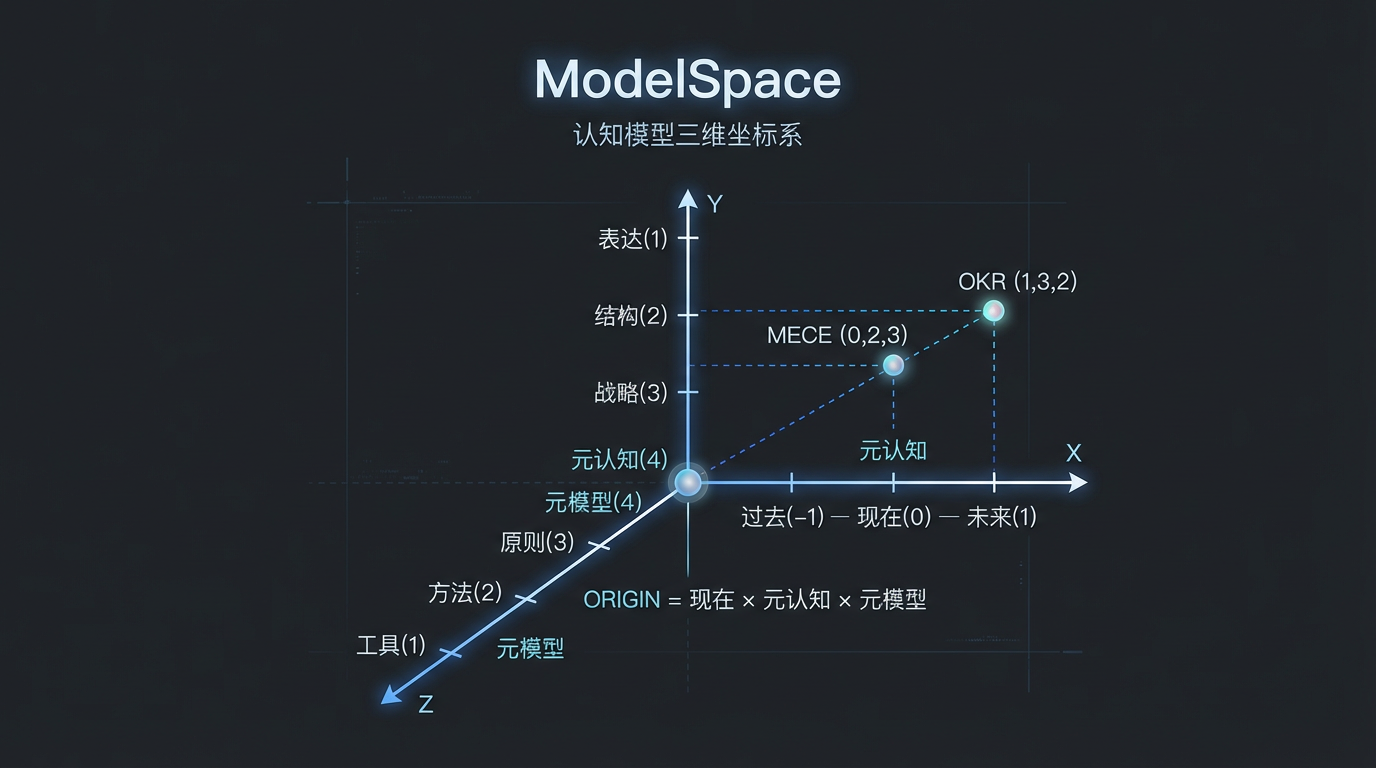
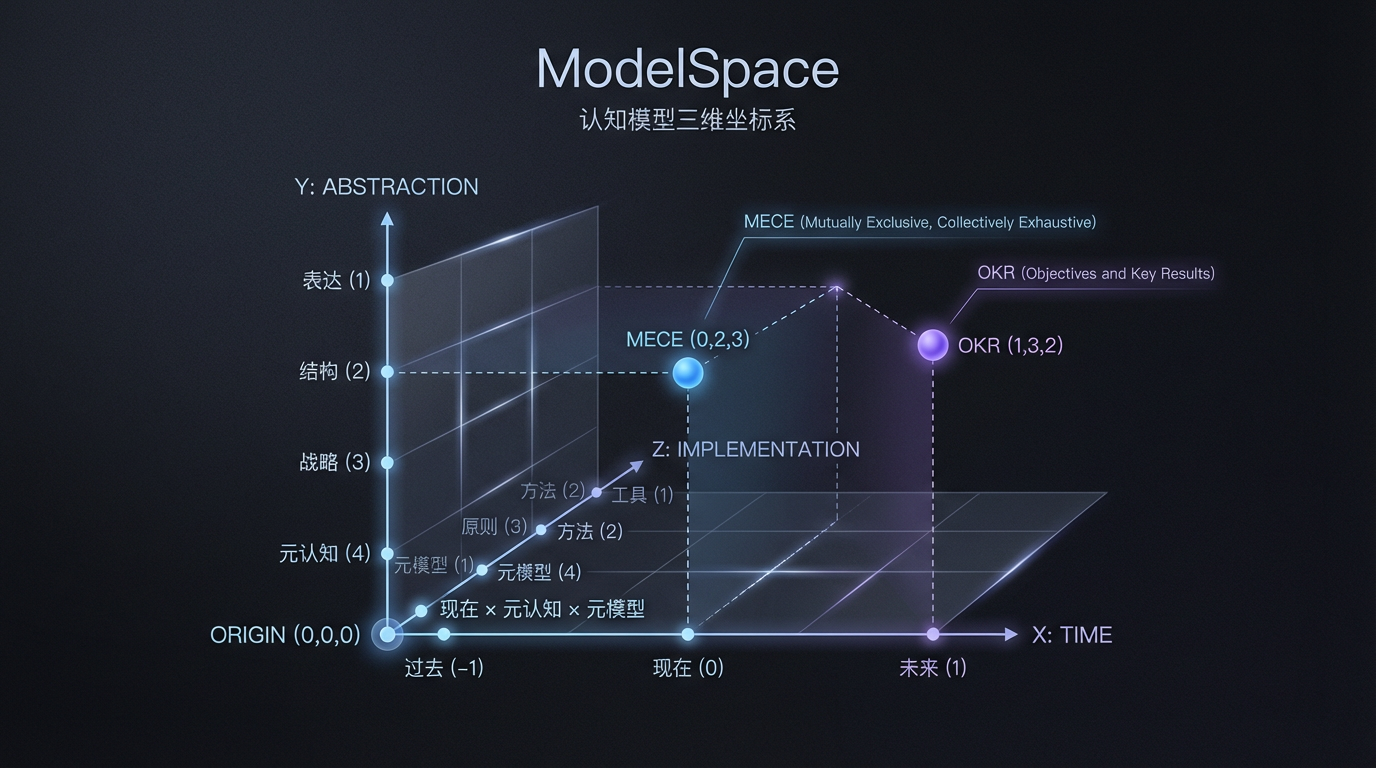
docs: Z axis inward so MECE and OKR positions are clear inside space
Made-with: Cursor

Changed region(s): [[0.1562, 0.2188, 0.875, 0.9375], [0.375, 0.0625, 0.625, 0.1875]]

diff --git a/docs/architecture/promo-diagram-redesign-v2.md b/docs/architecture/promo-diagram-redesign-v2.md
@@ -87,9 +87,9 @@ CRITICAL - THREE ORTHOGONAL AXES:
 - Three straight lines meeting at ONE point (origin). Origin = 现在(Present) × 元认知层(Meta-Cognition) × 元模型(Meta Model).
 - X axis: horizontal. Labels: 过去(-1) — 现在(0) — 未来(1)
 - Y axis: 元认知(4) at origin — 战略(3) — 结构(2) — 表达(1). 元认知 intersects with 现在.
-- Z axis: 元模型(4) at origin — 原则(3) — 方法(2) — 工具(1). 元模型 intersects with 现在.
+- Z axis: extends INWARD (into depth, away from viewer). 元模型(4) at origin (front) — 原则(3) — 方法(2) — 工具(1) toward back.
 
-At origin: 现在 × 元认知 × 元模型. Order along Y from origin outward: 元认知→战略→结构→表达. Order along Z: 元模型→原则→方法→工具.
+At origin: 现在 × 元认知 × 元模型. Y outward; Z inward so MECE and OKR are clearly inside the space.
 
 Model examples:
 - MECE at (0, 2, 3) - point on the grid
